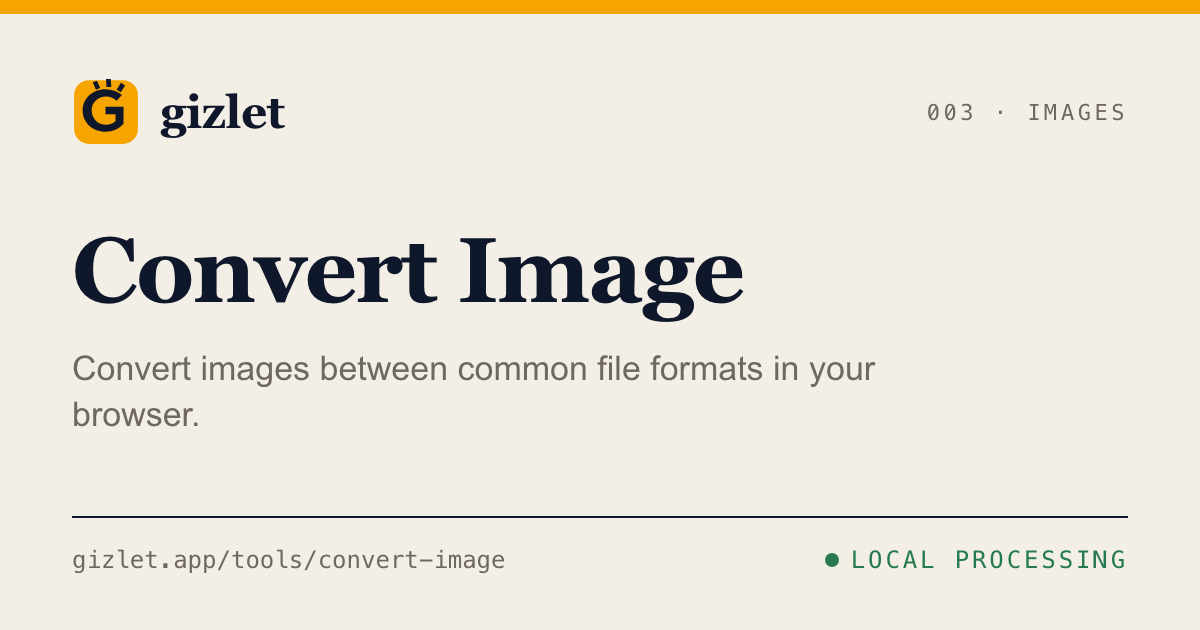
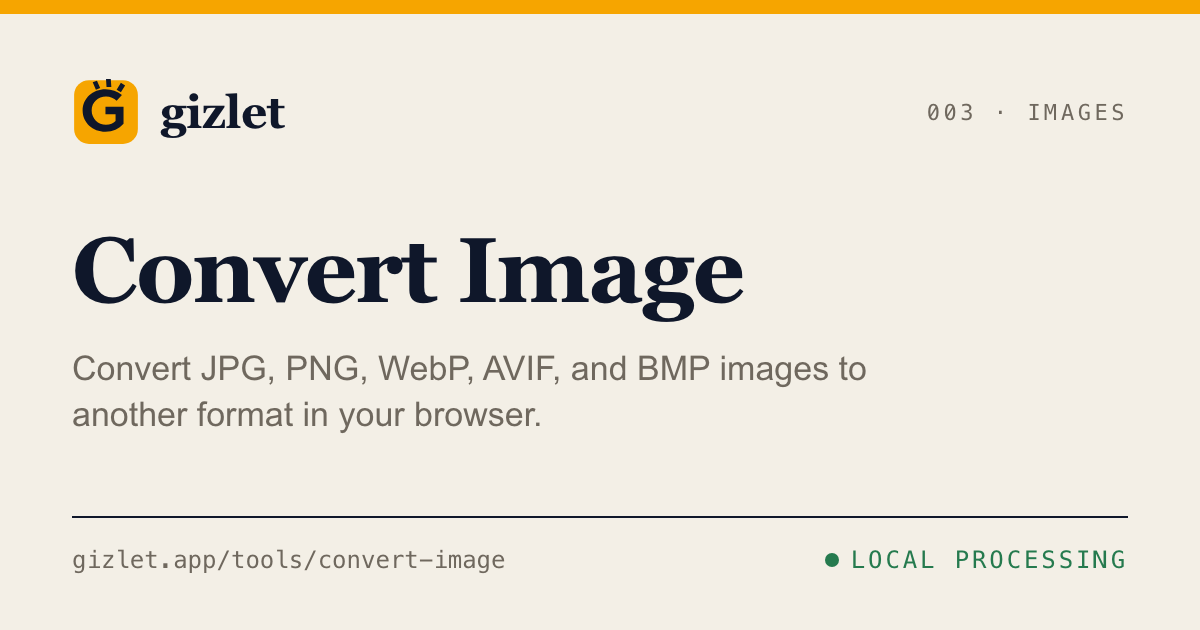
fix(pdf): rename JPG to PDF to Image to PDF (#134)

Changed region(s): [[0.1542, 0.5429, 0.74, 0.6032], [0.0617, 0.6333, 0.4625, 0.6937]]

diff --git a/tests/e2e/pdf-flow.spec.ts b/tests/e2e/pdf-flow.spec.ts
@@ -6,7 +6,7 @@ import { PDFDocument } from "pdf-lib";
 import { fixedPdfPageSizes } from "../../src/data/jpg-to-pdf";
 
 /**
- * The same two tiny JPEGs the JPG to PDF workspace uses: one wider than it is
+ * The same two tiny JPEGs the Image to PDF workspace uses: one wider than it is
  * tall, one taller than it is wide, so the assembled document proves the page
  * order and the automatic orientation.
  */
@@ -44,7 +44,7 @@ test("offers a block only when it accepts what the block before it produces", as
     "Compress Image",
     "Resize Image",
     "Convert Image",
-    "JPG to PDF",
+    "Image to PDF",
   ]);
 
   await addStep(page, "jpg-to-pdf");
@@ -134,7 +134,7 @@ test("runs every image step on every page before combining them", async ({
   // The chain still re-encodes images, so the format control stays — renamed,
   // because the format is now the one used inside the document.
   await expect(page.getByLabel("Page image format")).toBeVisible();
-  await page.getByLabel("JPG to PDF page size").selectOption("letter");
+  await page.getByLabel("Image to PDF page size").selectOption("letter");
 
   await chooseImages(page).setInputFiles([
     asFile("wide.jpg", wideJpeg),
@@ -170,8 +170,8 @@ test("shares a PDF flow as a settings-only recipe link and reopens it", async ({
   await page.getByLabel("Resize Image width").fill("300");
   await page.getByLabel("Resize Image height").fill("150");
   await addStep(page, "jpg-to-pdf");
-  await page.getByLabel("JPG to PDF page size").selectOption("legal");
-  await page.getByLabel("JPG to PDF orientation").selectOption("portrait");
+  await page.getByLabel("Image to PDF page size").selectOption("legal");
+  await page.getByLabel("Image to PDF orientation").selectOption("portrait");
 
   await page.getByRole("button", { name: "Copy recipe link" }).click();
   await expect(page.locator("[data-recipe-status]")).toContainText(
@@ -185,10 +185,10 @@ test("shares a PDF flow as a settings-only recipe link and reopens it", async ({
 
   await page.goto(`/flows/${recipe}`);
   await expect(page.getByRole("heading", { name: "Resize Image" })).toBeVisible();
-  await expect(page.getByRole("heading", { name: "JPG to PDF" })).toBeVisible();
+  await expect(page.getByRole("heading", { name: "Image to PDF" })).toBeVisible();
   await expect(page.getByLabel("Resize Image width")).toHaveValue("300");
-  await expect(page.getByLabel("JPG to PDF page size")).toHaveValue("legal");
-  await expect(page.getByLabel("JPG to PDF orientation")).toHaveValue("portrait");
+  await expect(page.getByLabel("Image to PDF page size")).toHaveValue("legal");
+  await expect(page.getByLabel("Image to PDF orientation")).toHaveValue("portrait");
   // The chain combines, so the reopened flow already asks for several images.
   await expect(chooseImages(page)).toHaveJSProperty("multiple", true);
 });

diff --git a/src/data/tools.ts b/src/data/tools.ts
@@ -46,6 +46,12 @@ export const toolRegistry = [
       "image compression",
       "reduce image size",
       "photo compressor",
+      "jpg",
+      "jpeg",
+      "png",
+      "webp",
+      "avif",
+      "bmp",
     ],
     processesLocally: true,
     launchStatus: "available",
@@ -61,7 +67,18 @@ export const toolRegistry = [
     path: "/tools/resize-image/",
     category: "images",
     description: "Change image dimensions without leaving your browser.",
-    keywords: ["resize", "image resizer", "change image size", "scale photo"],
+    keywords: [
+      "resize",
+      "image resizer",
+      "change image size",
+      "scale photo",
+      "jpg",
+      "jpeg",
+      "png",
+      "webp",
+      "avif",
+      "bmp",
+    ],
     processesLocally: true,
     launchStatus: "available",
     agent: {
@@ -75,12 +92,23 @@ export const toolRegistry = [
     slug: "convert-image",
     path: "/tools/convert-image/",
     category: "images",
-    description: "Convert images between common file formats in your browser.",
+    description: "Convert JPG, PNG, WebP, AVIF, and BMP images to another format in your browser.",
     keywords: [
       "convert",
       "image converter",
       "change image format",
+      "jpg",
+      "jpeg",
+      "png",
+      "webp",
+      "avif",
+      "bmp",
       "jpg to png",
+      "png to jpg",
+      "jpg to webp",
+      "png to webp",
+      "webp to jpg",
+      "webp to png",
     ],
     processesLocally: true,
     launchStatus: "available",
@@ -121,7 +149,7 @@ export const toolRegistry = [
   },
   {
     id: 6,
-    name: "JPG to PDF",
+    name: "Image to PDF",
     slug: "jpg-to-pdf",
     path: "/tools/jpg-to-pdf/",
     category: "pdf",
@@ -130,6 +158,10 @@ export const toolRegistry = [
       "jpg to pdf",
       "image to pdf",
       "images to pdf",
+      "png to pdf",
+      "webp to pdf",
+      "avif to pdf",
+      "bmp to pdf",
       "photo to pdf",
       "combine images into a pdf",
     ],

diff --git a/tests/unit/tool-flows.test.ts b/tests/unit/tool-flows.test.ts
@@ -63,7 +63,7 @@ describe('Gizlet flow registry', () => {
     }
   });
 
-  test('offers the PDF reader after JPG to PDF, because a Gizlet now declares it reads one', () => {
+  test('offers the PDF reader after Image to PDF, because a Gizlet now declares it reads one', () => {
     expect(getFlowTool('jpg-to-pdf').output).toEqual({ kind: 'pdf-file' });
     expect(getFlowToolsForInput('pdf-file').map((tool) => tool.toolSlug)).toEqual(['pdf-viewer']);
     expect(getNextFlowTools('jpg-to-pdf').map((tool) => tool.toolSlug)).toEqual(['pdf-viewer']);
@@ -111,7 +111,7 @@ describe('Gizlet flow registry', () => {
  * The compatibility rule is that payload kinds line up, so it has to hold for
  * contracts the live registry does not contain yet. These run the same
  * functions over injected definitions: declaring a Gizlet that reads a PDF has
- * to make it available after JPG to PDF, and one that turns a PDF back into an
+ * to make it available after Image to PDF, and one that turns a PDF back into an
  * image has to make the image Gizlets available after itself — with no change
  * to the graph code and no adjacency list to edit.
  */
@@ -132,7 +132,7 @@ describe('the compatibility rule, against contracts that do not exist yet', () =
   };
   const definitions: readonly ToolFlowDefinition[] = [...toolFlowRegistry, pdfToJpg, compressPdf];
 
-  test('offers a further PDF Gizlet after JPG to PDF as soon as one declares itself', () => {
+  test('offers a further PDF Gizlet after Image to PDF as soon as one declares itself', () => {
     expect(getNextFlowTools('jpg-to-pdf', definitions).map((tool) => tool.toolSlug)).toEqual([
       'pdf-viewer',
       'pdf-to-jpg',

diff --git a/src/data/tool-page-content.ts b/src/data/tool-page-content.ts
@@ -419,9 +419,9 @@ const toolPageContent: Record<string, ToolPageContent> = {
   },
   'jpg-to-pdf': {
     what: {
-      heading: 'What JPG to PDF does',
+      heading: 'What Image to PDF does',
       paragraphs: [
-        'JPG to PDF takes the images you choose and writes them into a single PDF, one image per page, in the order you put them in. Your browser decodes each picture, works out where it sits on the page, and assembles the document here on this device.',
+        'Image to PDF takes the images you choose and writes them into a single PDF, one image per page, in the order you put them in. Your browser decodes each picture, works out where it sits on the page, and assembles the document here on this device.',
         'Drop in one photograph or a hundred, move the pages into the order you want, pick a paper size, and download one file. Nothing is added to the pages: no header, no page number, no watermark.',
       ],
     },
@@ -477,7 +477,7 @@ const toolPageContent: Record<string, ToolPageContent> = {
           'Yes, that is the point of it. Choose as many as you like, up to 100 pages, then move them up or down until the page order is right. Each image becomes one page.',
       },
       {
-        question: 'Does it accept PNG and other formats, or only JPG?',
+        question: 'Which image formats does it accept?',
         answer:
           'It accepts JPEG, PNG, WebP, AVIF, and BMP. JPEG and PNG are embedded as they are; the others are re-encoded as JPEG on the way in, because a PDF cannot carry them directly.',
       },

diff --git a/src/scripts/tool-search.ts b/src/scripts/tool-search.ts
@@ -13,7 +13,29 @@ const normalise = (value: string) =>
     .replace(/[^\p{L}\p{N}]+/gu, ' ')
     .trim();
 
-const queryTerms = (query: string) => normalise(query).split(' ').filter(Boolean);
+/**
+ * Words that join a query rather than name a Gizlet. "jpg to png" asks about the
+ * two formats; scoring "to" as well would rank every tool whose name or
+ * description happens to contain it above the tool the query is actually for.
+ */
+const connectorWords = new Set([
+  'a',
+  'an',
+  'and',
+  'for',
+  'in',
+  'into',
+  'my',
+  'of',
+  'or',
+  'the',
+  'to',
+]);
+
+const queryTerms = (query: string) =>
+  normalise(query)
+    .split(' ')
+    .filter((term) => term.length > 0 && !connectorWords.has(term));
 
 /**
  * Finds Gizlets locally using the catalog fields intended for discovery.
@@ -30,7 +52,7 @@ export function searchTools(
     return [];
   }
 
-  const normalisedQuery = terms.join(' ');
+  const phrase = normalise(query);
 
   return tools
     .map((tool) => {
@@ -51,8 +73,10 @@ export function searchTools(
         score += Number(inName) * 8 + Number(inDescription) * 3 + Number(inKeyword) * 5;
       }
 
-      if (name.includes(normalisedQuery)) {
+      if (name.includes(phrase)) {
         score += 12;
+      } else if (keywords.some((keyword) => keyword.includes(phrase))) {
+        score += 10;
       }
 
       return { score, tool };

diff --git a/tests/unit/tool-search.test.ts b/tests/unit/tool-search.test.ts
@@ -10,6 +10,29 @@ describe('searchTools', () => {
     expect(searchTools('schema').map((tool) => tool.name)).toEqual(['JSON-LD Generator']);
   });
 
+  it('ranks Image to PDF first for its old name and every supported image format', () => {
+    for (const query of [
+      'jpg to pdf',
+      'image to pdf',
+      'png to pdf',
+      'webp to pdf',
+      'avif to pdf',
+      'bmp to pdf',
+    ]) {
+      expect(searchTools(query).map((tool) => tool.name)[0]).toBe('Image to PDF');
+    }
+  });
+
+  it('ranks the converter first when a query names two image formats', () => {
+    for (const query of ['jpg to png', 'png to jpg', 'jpg to webp', 'avif to jpg']) {
+      expect(searchTools(query).map((tool) => tool.name)[0]).toBe('Convert Image');
+    }
+  });
+
+  it('ignores connector words so they cannot outweigh the terms that matter', () => {
+    expect(searchTools('to')).toEqual([]);
+  });
+
   it('returns no results for a blank or unmatched query', () => {
     expect(searchTools('')).toEqual([]);
     expect(searchTools('spreadsheet')).toEqual([]);

diff --git a/tests/e2e/pdf-viewer.spec.ts b/tests/e2e/pdf-viewer.spec.ts
@@ -4,7 +4,7 @@ import { PDFDocument, StandardFonts, rgb } from "pdf-lib";
 import { pdfZoomLevels } from "../../src/data/pdf-viewer";
 
 /**
- * A real PDF, built with the library the JPG to PDF Gizlet already ships, so
+ * A real PDF, built with the library the Image to PDF Gizlet already ships, so
  * the viewer is tested against a document rather than a fixture blob. Each page
  * carries a differently sized block of colour, which is what lets a test tell
  * one rendered page from another by looking at the canvas.
@@ -197,7 +197,7 @@ test("carries a PDF through a flow and hands it on unchanged", async ({ page }) 
   await nextTool.selectOption("jpg-to-pdf");
   await page.getByRole("button", { name: "Add step" }).click();
 
-  // The viewer reads a PDF, so the graph now offers it after JPG to PDF with
+  // The viewer reads a PDF, so the graph now offers it after Image to PDF with
   // no adjacency list having been edited.
   await expect(nextTool.locator("option")).toHaveText([
     "Choose the next Gizlet",

diff --git a/src/data/tool-flows.ts b/src/data/tool-flows.ts
@@ -20,7 +20,7 @@ export type FlowPayloadKind = FlowPayloadContract['kind'];
  *
  * Compatibility is not listed anywhere: a block may follow another when the
  * earlier one's `output.kind` is the later one's `input.kind`. Declare a Gizlet
- * that reads a PDF and it becomes available after JPG to PDF; declare one that
+ * that reads a PDF and it becomes available after Image to PDF; declare one that
  * turns a PDF back into images and the image Gizlets become available after
  * that, with no edit to the graph. A hand-written adjacency list would only
  * restate these kinds and could then disagree with them.

diff --git a/src/data/jpg-to-pdf.ts b/src/data/jpg-to-pdf.ts
@@ -2,7 +2,7 @@ import { isSupportedImageFile, type ImageInputFormat } from './image-compression
 import { maximumImagePixels, validateResizeDimensions, type ImageDimensions } from './image-resize';
 
 /**
- * Deterministic logic for the JPG to PDF Gizlet: which files it accepts, how
+ * Deterministic logic for the Image to PDF Gizlet: which files it accepts, how
  * many pages it will build, where an image sits on a page, and what the finished
  * file is called.
  *

diff --git a/tests/e2e/jpg-to-pdf.spec.ts b/tests/e2e/jpg-to-pdf.spec.ts
@@ -26,7 +26,7 @@ test("assembles chosen images into one local PDF in the order set on the page", 
 }) => {
   await page.goto("/tools/jpg-to-pdf/");
 
-  await expect(page).toHaveTitle("JPG to PDF | Gizlet");
+  await expect(page).toHaveTitle("Image to PDF | Gizlet");
   await expect(page.getByLabel("Local processing")).toContainText(
     "Your images stay on this device.",
   );

diff --git a/tests/e2e/homepage.spec.ts b/tests/e2e/homepage.spec.ts
@@ -514,7 +514,7 @@ test("renders the editorial homepage content from the tool registry", async ({
     "Convert Image",
     "JSON-LD Generator",
     "JSON Formatter",
-    "JPG to PDF",
+    "Image to PDF",
     "PDF Viewer",
   ]) {
     await expect(

diff --git a/CHANGELOG.md b/CHANGELOG.md
@@ -6,6 +6,16 @@ The format is based on [Keep a Changelog](https://keepachangelog.com/en/1.1.0/),
 
 ## [Unreleased]
 
+### Changed
+
+- The JPG to PDF Gizlet is now called Image to PDF, accurately reflecting that it accepts JPEG, PNG, WebP, AVIF, and BMP images. Its `jpg-to-pdf` URL and recipe-link slug remain unchanged, so existing links continue to work.
+- The Convert Image Gizlet's description now names the formats it takes, on its card, in its metadata, and on its regenerated preview card: “Convert JPG, PNG, WebP, AVIF, and BMP images to another format in your browser.” The previous wording, “common file formats”, left unanswered the one question a converter is asked.
+
+### Fixed
+
+- Searching for an image conversion no longer sends people to Image to PDF. Its `png to pdf`, `webp to pdf`, `avif to pdf`, and `bmp to pdf` keywords made it match `jpg to png` — the keyword Convert Image declares for itself — on every term, and the connector `to` scored three times over, once for its name, once for its description, and once for its keywords. It outranked the converter on the converter's own query, and was the only result for `webp`, `avif`, and `bmp`. Connector words are now dropped from a query before it is scored, an exact keyword phrase earns the same kind of bonus an exact name match already did, and the three image Gizlets declare the formats they genuinely accept. `jpg to png` and `avif to jpg` rank Convert Image first; `png to pdf` still returns Image to PDF alone.
+- The Image to PDF page's format question no longer asks “or only JPG?”. The Gizlet stopped claiming to be JPG-only when it was renamed, so the question raised a doubt its own page no longer invited.
+
 ## [0.3.0] - 2026-09-03
 
 ### Added
